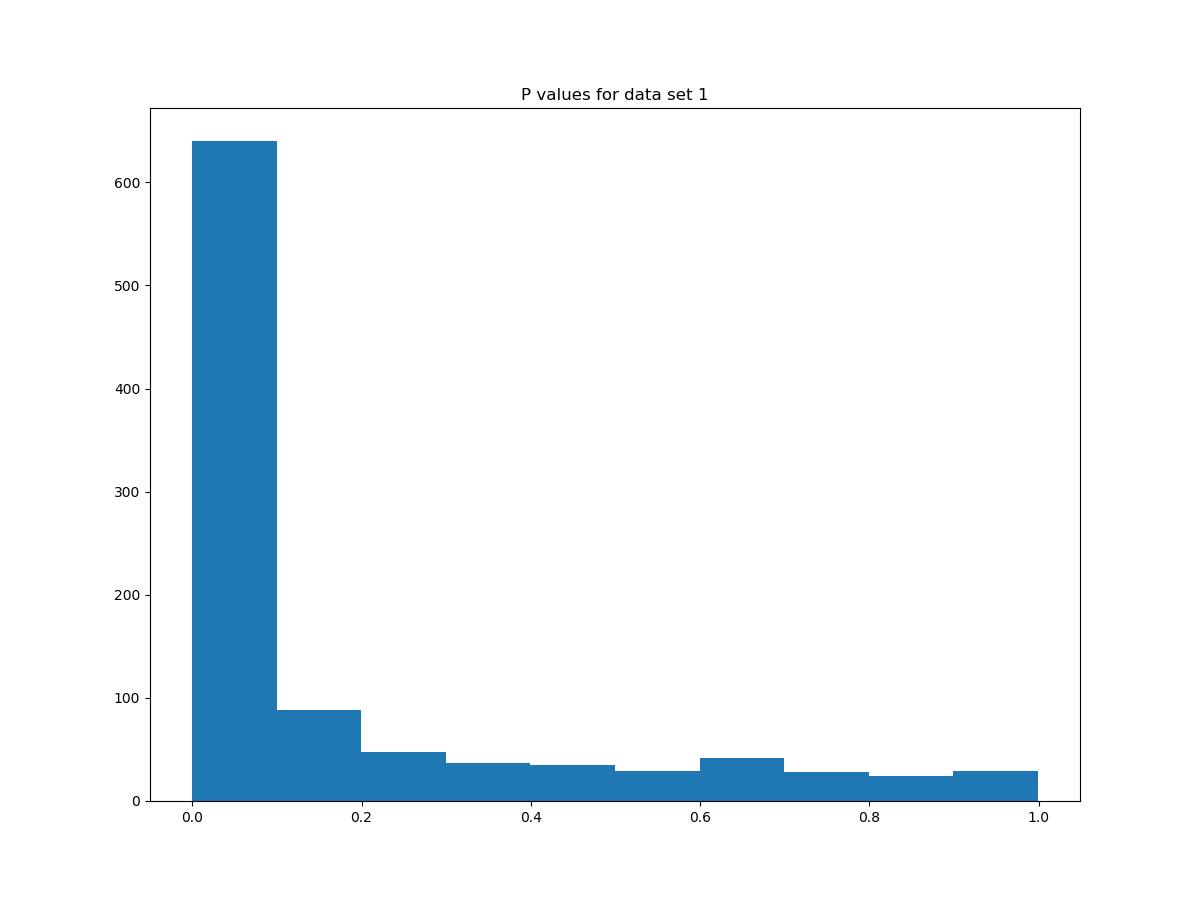
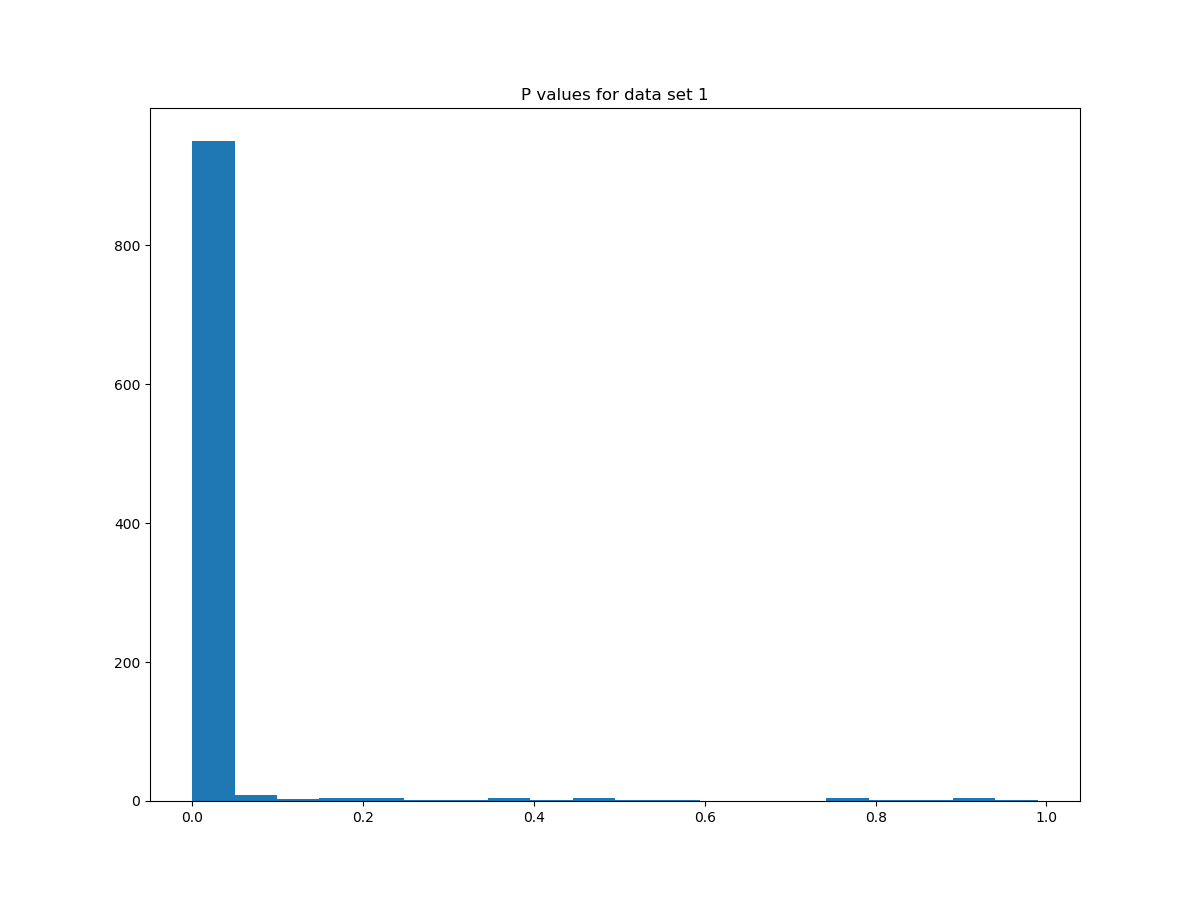
fixes p1.png

diff --git a/hw/project2/project2.py b/hw/project2/project2.py
@@ -157,7 +157,7 @@ p3p5 = [pvalh(h,mu,sigma) for h in p3H5]
 
 plt.figure(figsize=(12,9))
 plt.title('P values for data set 1')
-plt.hist(p3p1)
+plt.hist(p3p1,bins=20)
 plt.savefig('p1.png') 
 plt.clf()
 plt.cla()
@@ -166,7 +166,6 @@ plt.close()
 plt.figure(figsize=(12,9))
 plt.title('P values for data set 2')
 plt.hist(p3p2, bins=20)
-#plt.axvline(x=0.05,color='black',linestyle='dotted')
 plt.savefig('p2.png') 
 plt.clf()
 plt.cla()
@@ -175,7 +174,6 @@ plt.close()
 plt.figure(figsize=(12,9))
 plt.title('P values for data set 3')
 plt.hist(p3p3, bins=20)
-#plt.axvline(x=0.05,color='black',linestyle='dotted')
 plt.savefig('p3.png') 
 plt.clf()
 plt.cla()
@@ -184,7 +182,6 @@ plt.close()
 plt.figure(figsize=(12,9))
 plt.title('P values for data set 4')
 plt.hist(p3p4, bins=20)
-#plt.axvline(x=0.05,color='black',linestyle='dotted')
 plt.savefig('p4.png') 
 plt.clf()
 plt.cla()
@@ -193,7 +190,6 @@ plt.close()
 plt.figure(figsize=(12,9))
 plt.title('P values for data set 5')
 plt.hist(p3p5, bins=20)
-#plt.axvline(x=0.05,color='black',linestyle='dotted')
 plt.savefig('p5.png') 
 plt.clf()
 plt.cla()
